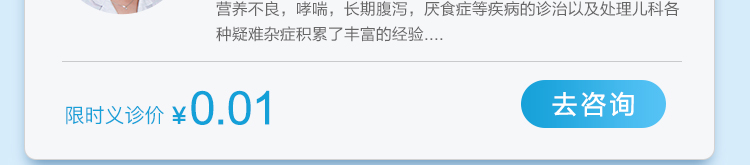
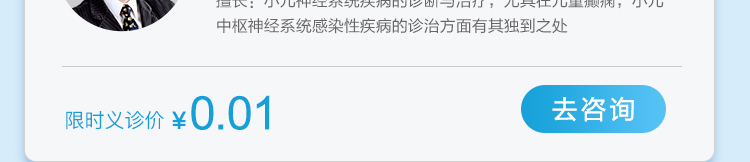
fixed

diff --git a/index.html b/index.html
@@ -77,23 +77,24 @@
 		<div class="header">
 			<div><img src="./1.jpg?rand=1"/></div>
 			<div><img src="./2.jpg?rand=1"/></div>
+			<div><img src="./3.jpg?rand=1"/></div>
 		</div>
 
 
-		<a href="https://www.jk.cn/srilanka/#/doctor-detail/151200330008" class="one-doctor">
+		<a href="https://www.jk.cn/srilanka/#/doctor-detail/151130680208" class="one-doctor">
 			<div class="one-doctor-1"><img src="./1-1.jpg?rand=1"/></div>
 			<div class="one-doctor-2"><img src="./1-2.jpg?rand=1"/></div>
 			<div class="one-doctor-2"><img src="./1-3.jpg?rand=1"/></div>
 		</a>
 
-		<a href="https://www.jk.cn/srilanka/#/doctor-detail/151168130305" class="one-doctor">
+		<a href="https://www.jk.cn/srilanka/#/doctor-detail/151242960504" class="one-doctor">
 			<div class="one-doctor-1"><img src="./2-1.jpg?rand=1"/></div>
 			<div class="one-doctor-2"><img src="./2-2.jpg?rand=1"/></div>
 			<div class="one-doctor-2"><img src="./2-3.jpg?rand=1"/></div>
 
 		</a>
 
-		<a href="https://www.jk.cn/srilanka/#/doctor-detail/77162060707" class="one-doctor">
+		<a href="https://www.jk.cn/srilanka/#/doctor-detail/151359180002" class="one-doctor">
 			<div class="one-doctor-1"><img src="./3-1.jpg?rand=1"/></div>
 			<div class="one-doctor-2"><img src="./3-2.jpg?rand=1"/></div>
 			<div class="one-doctor-2"><img src="./3-3.jpg?rand=1"/></div>
